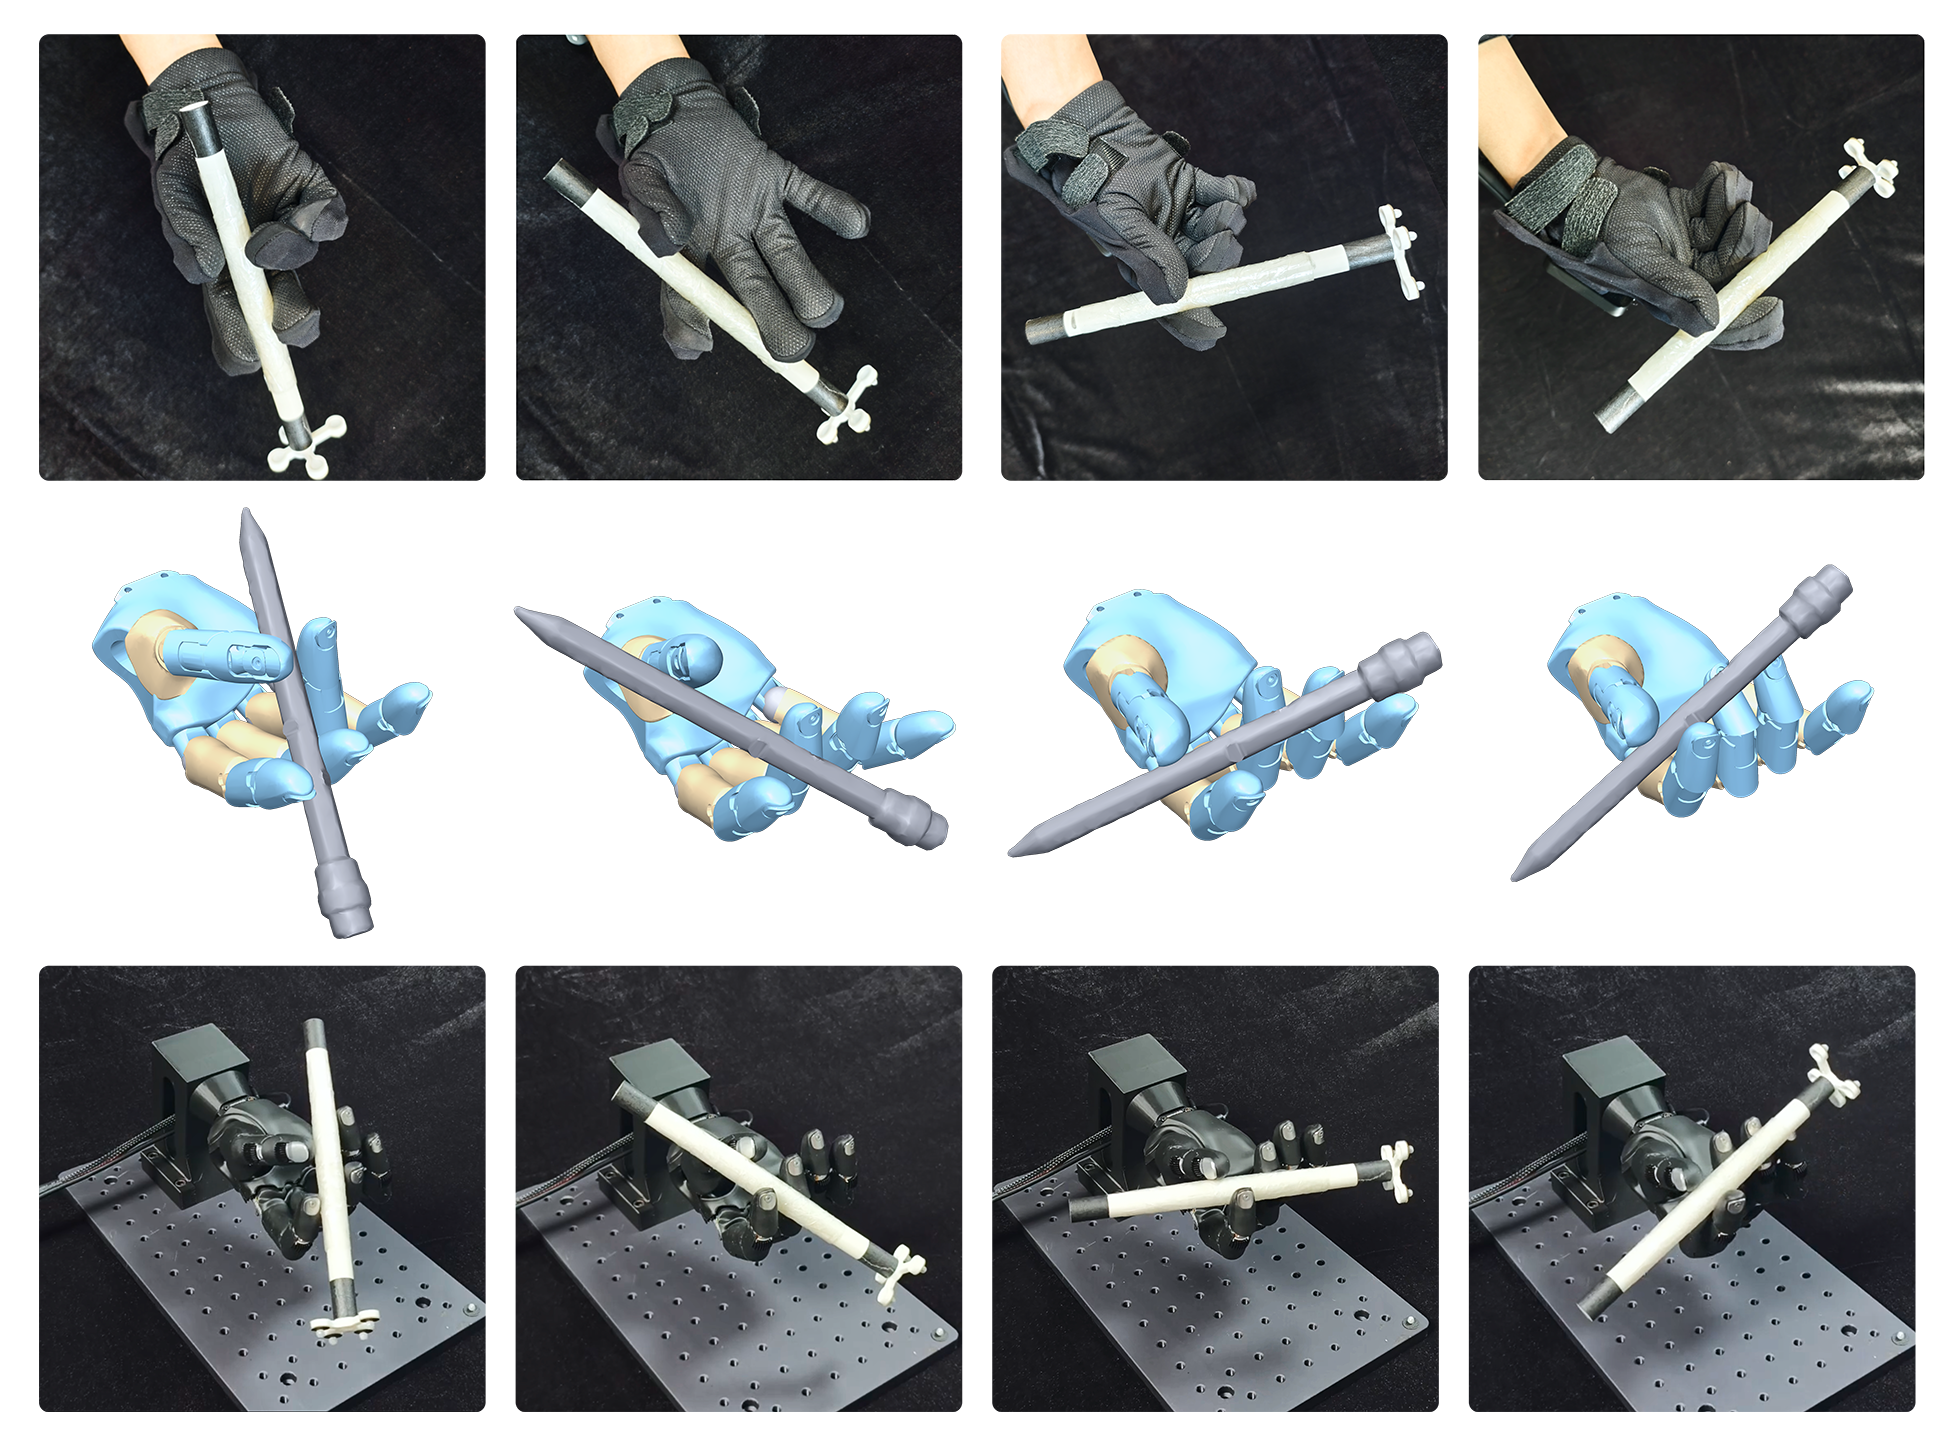
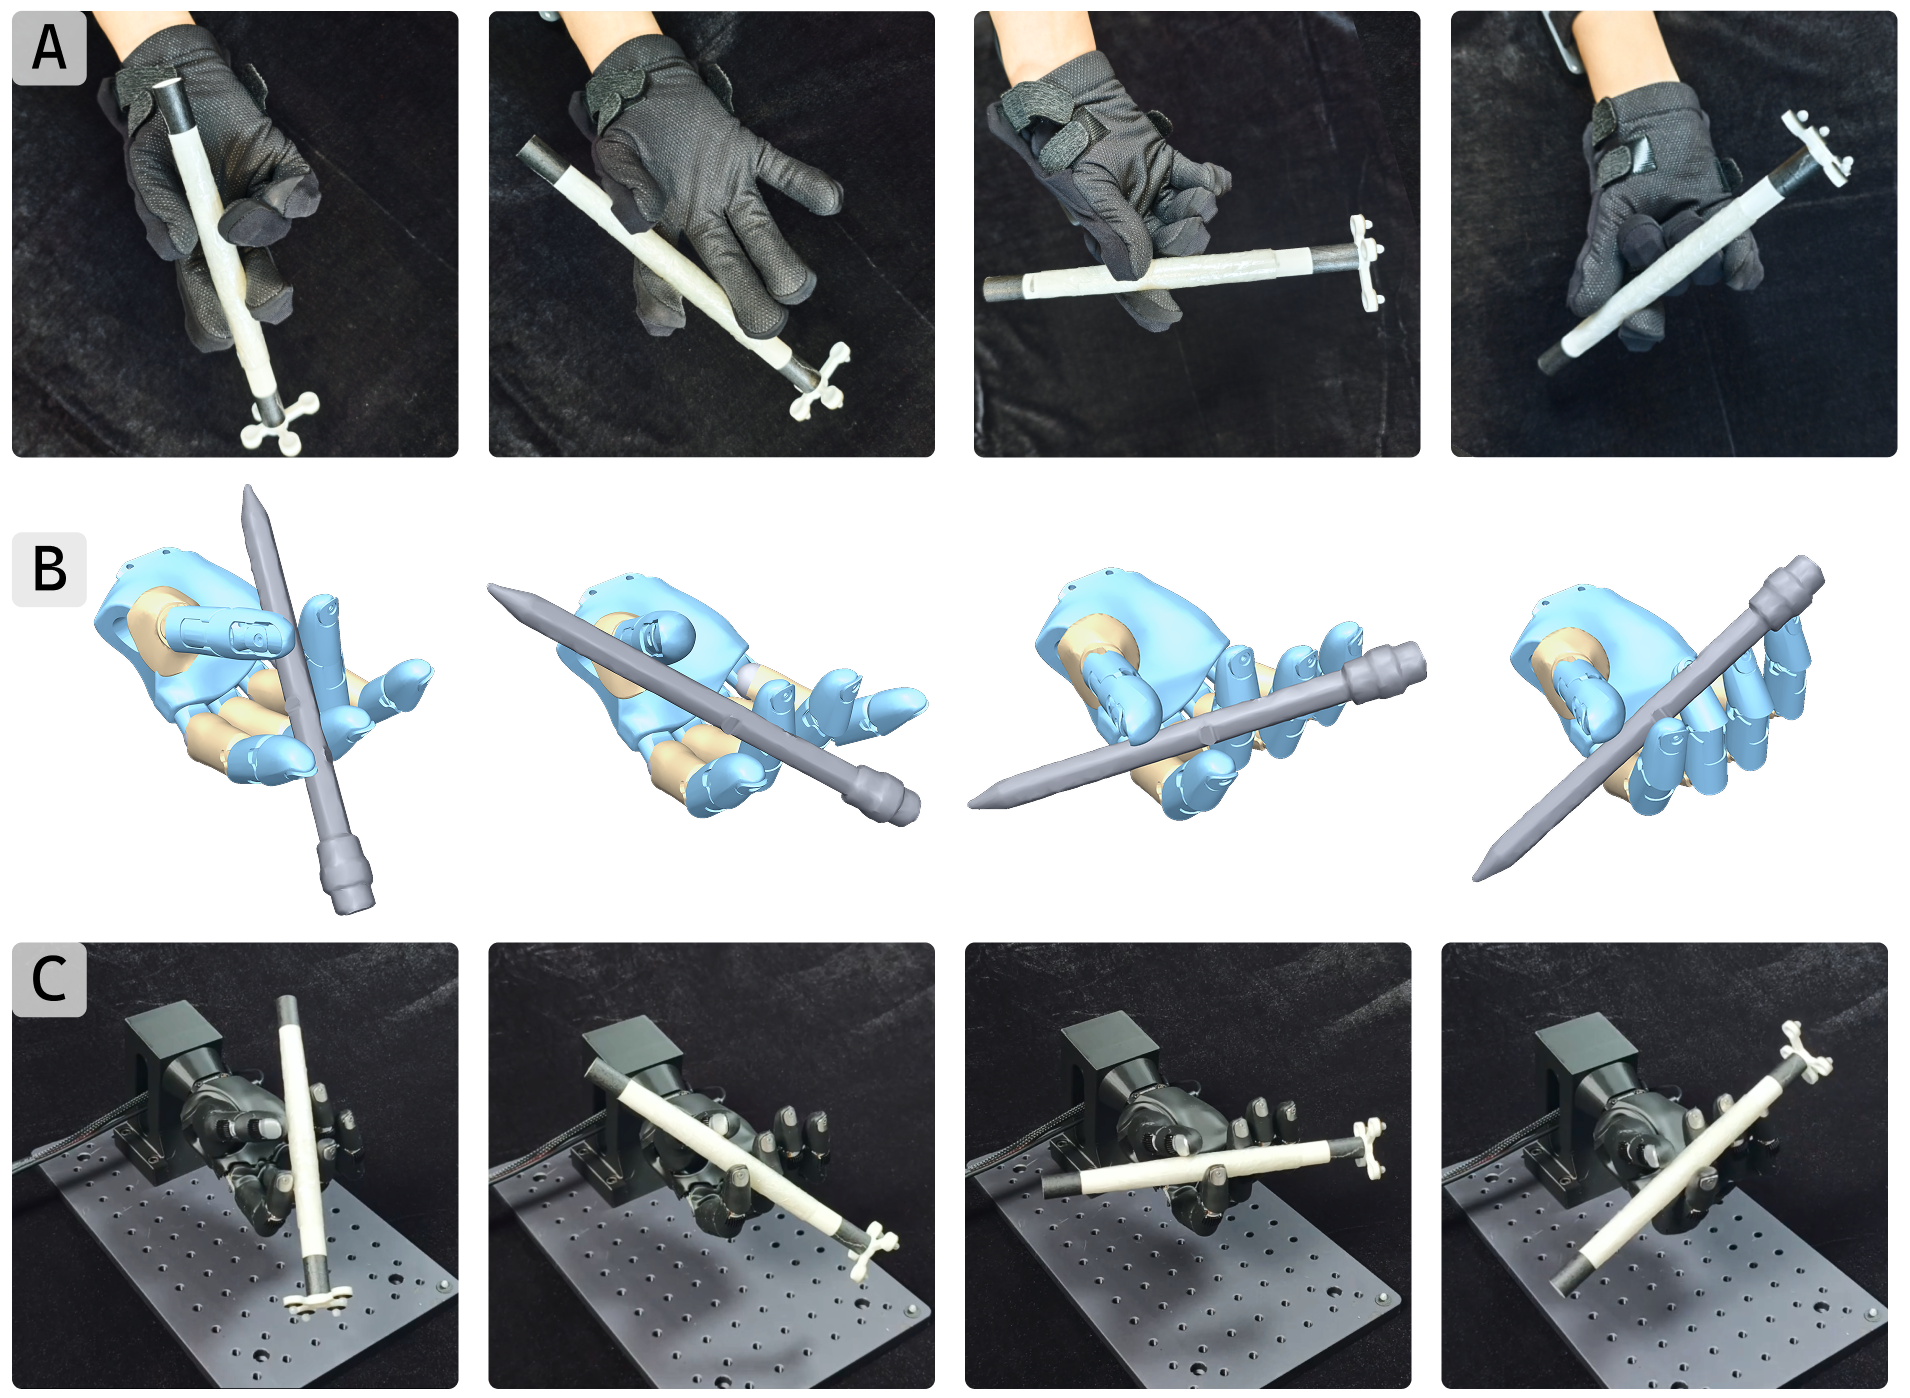
Refresh figures and copy from updated paper draft
- Update teaser and real-world figures (real-world now shows interaction-mesh
  references vs. zero-shot executions); refresh pipeline and comparison figures
- Sync abstract and captions with the latest paper wording
- Render TopoRetarget brand mentions in bold green (matching the paper's topogreen)

Changed region(s): [[0.0, 0.0, 1.0, 1.0]]

diff --git a/index.html b/index.html
@@ -9,7 +9,7 @@
 <body>
 
 <header>
-  <h1>TopoRetarget: Interaction-centric Retargeting<br>for Dexterous Manipulation</h1>
+  <h1><span class="topo">TopoRetarget</span>: Interaction-centric Retargeting<br>for Dexterous Manipulation</h1>
   <p class="authors">Anonymous Submission</p>
   <p class="venue">CoRL 2026 (Under Review)</p>
   <p class="keywords">
@@ -34,10 +34,9 @@
 <section>
   <img src="static/images/fig1_teaser.png" alt="Teaser">
   <p class="caption">
-    <b>TopoRetarget</b> is a tuning-free, interaction-preserving retargeting method that converts
-    human hand-object demonstrations into robot references for contact-rich dexterous manipulation.
-    The generated references enable efficient RL policy learning and zero-shot sim-to-real transfer
-    on the Wuji Hand.
+    <span class="topo">TopoRetarget</span> converts human hand-object trajectories collected with a
+    motion-capture glove into robot references for contact-rich dexterous manipulation. The generated
+    references enable efficient RL policy learning and zero-shot sim-to-real transfer on the Wuji Hand.
   </p>
 </section>
 
@@ -51,18 +50,19 @@
     feasibility artifacts can propagate into downstream RL training.
   </p>
   <p>
-    We introduce <b>TopoRetarget</b>, a tuning-free, interaction-centric retargeting framework that
-    preserves task-relevant local hand-object topology while adapting human demonstrations to
-    dexterous robot hands. The method constructs a sparse interaction graph over hand and object
-    keypoints and optimizes distance-weighted Laplacian deformation with directional consistency,
-    kinematic constraints, and penetration handling.
+    We introduce <span class="topo">TopoRetarget</span>, an interaction-centric retargeting framework
+    that uses a single parameter set across diverse retargeting conditions while preserving
+    task-relevant local hand-object topology and adapting human demonstrations to dexterous robot
+    hands. The method constructs a sparse interaction graph over hand and object keypoints and
+    optimizes distance-weighted Laplacian deformation with directional consistency, kinematic
+    constraints, and penetration handling.
   </p>
   <p>
     Evaluations show that the generated references improve both interaction fidelity and policy
-    learning: TopoRetarget achieves <b>9.33&nbsp;mm</b> contact precision error and
-    <b>16.30°</b> contact alignment error on the ContactPose dataset, improves Pen-Twirl training
-    success by <b>+40.6 percentage points</b> over existing baselines, and enables zero-shot
-    transfer to Wuji Hand hardware on cube reorientation and pen spinning.
+    learning: <span class="topo">TopoRetarget</span> achieves the best contact precision and
+    alignment over all baselines on the ContactPose dataset, improves Pen-Spin training success by
+    <b>+40.6 percentage points</b> over existing baselines, and enables zero-shot transfer to Wuji
+    Hand hardware on cube reorientation and pen spinning.
   </p>
 </section>
 
@@ -82,10 +82,10 @@
   <h2>Method</h2>
   <img src="static/images/fig2_pipeline.png" alt="Pipeline">
   <p class="caption">
-    Starting from a human hand-object trajectory, a relative bone-direction warm-up initializes
-    the robot hand pose. A sparse interaction graph over hand links and object keypoints then drives
-    a distance-weighted Laplacian optimization under directional, kinematic, and non-penetration
-    constraints, producing references that preserve local interaction topology.
+    <span class="topo">TopoRetarget</span> overview. Given a human demonstration, object mesh, and
+    target hand model, the method aligns bone directions during initialization, constructs source and
+    robot interaction meshes, and computes the robot configuration via topology-aware Laplacian
+    optimization. The output robot motion reference preserves hand-object interaction.
   </p>
 </section>
 
@@ -93,8 +93,9 @@
   <h2>Comparison with Baselines</h2>
   <img src="static/images/fig3_comparison.png" alt="Comparison with baselines">
   <p class="caption">
-    Compared with hand-centric and contact-aware baselines (DexPilot, GeoRT, OmniRetarget, and
-    others), TopoRetarget avoids missed contacts, hand-object penetration, and joint
+    Retargeting artifacts of existing methods under hand-object and hand-only cases. Compared with
+    hand-centric and contact-aware baselines (DexPilot, GeoRT, OmniRetarget, and others),
+    <span class="topo">TopoRetarget</span> avoids missed contacts, hand-object penetration, and joint
     hyperextension caused by uniform-weight Laplacian deformation on a global scale.
   </p>
 </section>
@@ -105,8 +106,10 @@
     <img src="static/images/fig4_realworld.png" alt="Wuji Hand real-world rollouts">
   </div>
   <p class="caption">
-    Zero-shot sim-to-real rollouts on the Wuji Hand for cube reorientation and pen spinning,
-    using policies trained purely with TopoRetarget references under a lightweight RL setup.
+    Interaction-mesh visualizations of retargeted reference trajectories (A,&nbsp;C) and the
+    corresponding zero-shot real-world executions (B,&nbsp;D) for cube reorientation and pen spinning
+    on the Wuji Hand, using policies trained purely with <span class="topo">TopoRetarget</span>
+    references under a lightweight RL setup.
   </p>
 </section>
 
@@ -116,8 +119,9 @@
     <img src="static/images/fig5_generalization.png" alt="Cross-embodiment and object size">
   </div>
   <p class="caption">
-    Tuning-free generalization across dexterous hand embodiments (MANO, Wuji, Leap) and across
-    object meshes and scales, from a single human demonstration.
+    Augmentation across object scales and dexterous hand embodiments without per-case retuning:
+    from a single human demonstration, <span class="topo">TopoRetarget</span> adapts to new object
+    meshes, object scales, and hand embodiments (MANO, Wuji, Leap).
   </p>
 </section>
 

diff --git a/static/css/style.css b/static/css/style.css
@@ -21,6 +21,7 @@ header h1 {
 .venue   { color: #888; font-size: .9rem; margin: .2rem 0; }
 .keywords { color: #777; font-size: .85rem; margin: .4rem 0 .8rem; font-style: italic; }
 .caption { color: #555; font-size: .9rem; margin-top: .3rem; }
+.topo { color: #008000; font-weight: 700; }
 .zoom {
   position: relative;
   cursor: crosshair;